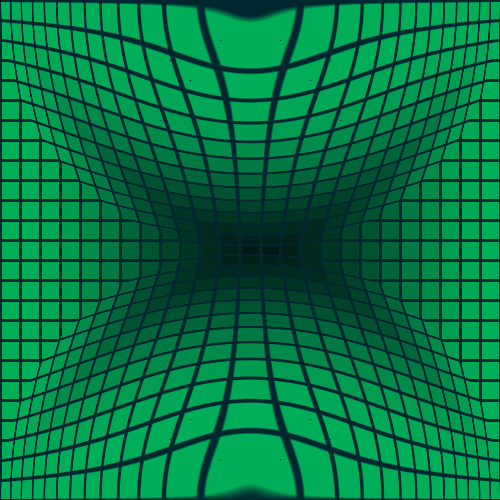
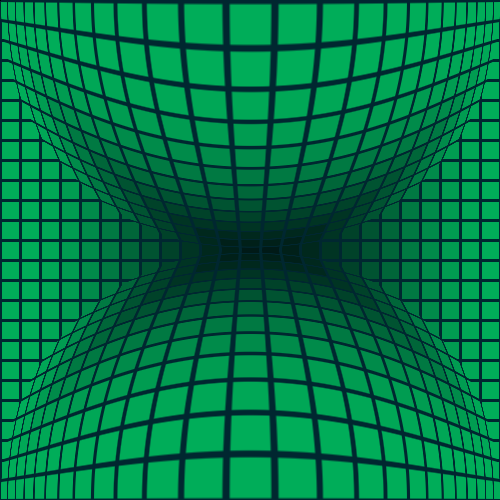
Update sphere calc

diff --git a/vasa_lib.py b/vasa_lib.py
@@ -97,33 +97,34 @@ def create_all_symbol(img,shape,nb_symbol,symbol_size,symbol_color,span,mu,sig,m
             # Adding symbol
             create_symbol(draw,shape,(x,y),symbol_format,span)
 
-def deformation(p , c, radius):
+def spherize_coordinates(p , c, radius, curvature):
+    # https://lms.fun-mooc.fr/asset-v1:ulb+44013+session03+type@asset+block/explication-deformation.pdf
+
+    # Coordinates
     x, y, z = p
     x_,y_,z_= p
     xc, yc, zc = int(c[0]), int(c[1]), int(c[2])
 
-    x_vec = x - xc
-    y_vec = y - yc
-    z_vec = z - zc
+    # relative coordinates
+    x_minus_xc = x - xc
+    y_minus_yc = y - yc
+    z_minus_zc = z - zc
 
-    # x = r * sin(theta) * cos(phi)
-    # y = r * sin(theta) * sin(phi)
-    # z = r * cos(theta)
+    # Apparent radius
+    #Ra = math.sqrt( radius**2 - z_minus_zc**2 )
 
-    # r = sqrt( x^2 + y^2 + z^2 )
-    # theta = acos( z / r )
-    # phi = atan2 ( y / x )
+    # Norm radius
+    r = math.sqrt( x_minus_xc**2 + y_minus_yc**2 )
 
-    # Calc theta
-    projected_radius = math.sqrt( x_vec**2 + y_vec**2 )
-    sin_theta = projected_radius / radius
-    # sin_phi = y_vec / radius
-    # cos_phi = x_vec / radius
+    if 0 < r < radius:
+        #r_div_Ra = r / Ra
+        r_div_Ra = r / radius
+        #r_ = radius * math.sin( r_div_Ra * math.acos( abs(z_minus_zc) / radius ) )
+        r_ = radius * math.sin( r_div_Ra * (math.pi/2) )
 
-    if projected_radius < radius:
-        # x = r * sin_theta * cos_phi
-        x_ = xc + sin_theta * x_vec
-        y_ = yc + sin_theta * y_vec
+        # New coordinates
+        x_ = xc + (r / r_)**curvature * x_minus_xc
+        y_ = yc + (r / r_)**curvature * y_minus_yc
 
     return x_,y_,z_
 
@@ -147,7 +148,7 @@ def tuple_int(t):
         ret_tuple += (int(t[i]),)
     return ret_tuple
 
-def linear_interpolation(x,y, x_,y_, original_pixels, new_pixels):
+def linear_interpolation(x,y, x_,y_, img_size, original_pixels, new_pixels):
     # https://fr.wikipedia.org/wiki/Interpolation_lin%C3%A9aire
     # f(x) = y1 * (x2-x)/(x2-x1) + y2 * (x-x1)/(x2-x1)
     #
@@ -161,24 +162,36 @@ def linear_interpolation(x,y, x_,y_, original_pixels, new_pixels):
     y_int   = int(y_)
     y_frac  = y_ - y_int
 
+    # Edge management
+    if x_int < img_size[0]-1:
+        x_int_add_1 = x_int+1
+    else:
+        x_int = img_size[0]-1
+        x_int_add_1 = img_size[0]-1
+    if y_int < img_size[1]-1:
+        y_int_add_1 = y_int+1
+    else:
+        y_int = img_size[1]-1
+        y_int_add_1 = y_int
+
     if x_frac == 0:
         # y interpolation
         y1 = original_pixels[x_int, y_int] 
-        y2 = original_pixels[x_int, y_int+1] 
+        y2 = original_pixels[x_int, y_int_add_1] 
         y1 = tuple(map(lambda value: value * (1-y_frac), y1))
         y2 = tuple(map(lambda value: value * y_frac,     y2))
 
     else:
         # x interpolation
         y1 = original_pixels[x_int,  y_int] 
-        y2 = original_pixels[x_int+1,y_int] 
+        y2 = original_pixels[x_int_add_1,y_int] 
         y1 = tuple(map(lambda value: value * (1-x_frac), y1))
         y2 = tuple(map(lambda value: value * x_frac,     y2))
 
     new_pixels[x,y] = tuple_int(tuple_add(y1,y2))
 
 
-def bilinear_interpolation(x,y, x_,y_, original_pixels, new_pixels):
+def bilinear_interpolation(x,y, x_,y_, img_size, original_pixels, new_pixels):
     # https://fr.wikipedia.org/wiki/Interpolation_bilin%C3%A9aire
     #
     #   (x1,y2)         (x2,y2)
@@ -205,19 +218,31 @@ def bilinear_interpolation(x,y, x_,y_, original_pixels, new_pixels):
     y_int   = int(y_)
     y_frac  = y_ - y_int
 
+    # Edge management
+    if x_int < img_size[0]-1:
+        x_int_add_1 = x_int+1
+    else:
+        x_int = img_size[0]-1
+        x_int_add_1 = img_size[0]-1
+    if y_int < img_size[1]-1:
+        y_int_add_1 = y_int+1
+    else:
+        y_int = img_size[1]-1
+        y_int_add_1 = y_int
+
     # No treatement
     if x_frac == 0 and y_frac == 0:
         return None
 
     # linear_interpolation
     if x_frac == 0 or y_frac == 0:
-        linear_interpolation(x,y,x_,y_,original_pixels, new_pixels)
+        linear_interpolation(x,y,x_,y_,img_size,original_pixels, new_pixels)
 
     else:
         f11 = original_pixels[x_int,y_int]
-        f12 = original_pixels[x_int,y_int+1]
-        f21 = original_pixels[x_int+1,y_int]
-        f22 = original_pixels[x_int+1,y_int+1]
+        f12 = original_pixels[x_int,y_int_add_1]
+        f21 = original_pixels[x_int_add_1,y_int]
+        f22 = original_pixels[x_int_add_1,y_int_add_1]
 
         tmp1 = tuple(map(lambda value: value * x_frac, tuple_sub(f21,f11)))
         tmp2 = tuple(map(lambda value: value * y_frac, tuple_sub(f12,f11)))

diff --git a/sphere.py b/sphere.py
@@ -6,7 +6,8 @@ import inspect
 #########################
 # FUNCTIONS
 #########################
-def sphere_engine(img_obj,img_size):
+def sphere_engine(img_obj,img_size, pc, radius, curvature=1):
+    # 1 < curvature < N
 
     # Copy input img
     new_img = img_obj.copy()
@@ -19,30 +20,22 @@ def sphere_engine(img_obj,img_size):
     new_pixels      = new_img.load()
 
     for y in range(img_size[1]):
-        #img_matrix.append( list(map(lambda x: deformation( (x,y,0), (100,100,0) , 50 )[:2], img_array)) )
 
         for x in range(img_size[0]):
             # Calculate new points
-            x_,y_,z_ = deformation( (x,y,0), (250,0,0) , 250 )
+            x_,y_,z_ = spherize_coordinates((x,y,0),pc,radius,curvature)
 
             # New pixel to calculate ? 
-            #if type(x_) == int and type(y_) == int:
-            #    continue
+            if type(x_) == int and type(y_) == int:
+                continue
 
             # Interpolation bilineaire
             if type(x_) != int and type(y_) != int:
-                bilinear_interpolation(x,y,x_,y_,original_pixels,new_pixels)
+                bilinear_interpolation(x,y,x_,y_,img_size,original_pixels,new_pixels)
 
             # Interpolation linaire
-            #else:
-            #    linear_interpolation(x,y,x_,y_,original_pixels,new_pixels)
-
-            # Calc new points
-            x_,y_,z_ = deformation( (x,y,0), (250,499,0) , 250 )
-
-            # Interpolation bilineaire
-            if type(x_) != int and type(y_) != int:
-                bilinear_interpolation(x,y,x_,y_,original_pixels,new_pixels)
+            else:
+                linear_interpolation(x,y,x_,y_,img_size,original_pixels,new_pixels)
 
     return new_img
 
@@ -84,6 +77,8 @@ bg_img.save('sphere.png')
 #########################
 # Sphere calc
 #########################
-new_img = sphere_engine(bg_img,img_size)
-new_img.save('sphered.png')
+new_img  = sphere_engine(bg_img, img_size,(250,0,0),  250, 2)
+new_img2 = sphere_engine(new_img,img_size,(250,499,0),250, 2)
+
+new_img2.save('sphered.png')
 
